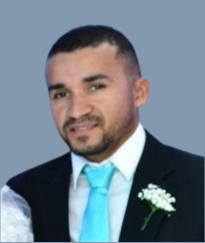
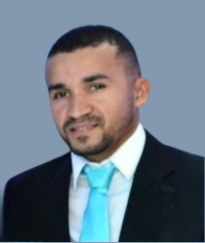
updated profile image

Changed region(s): [[0.0, 0.749, 0.2049, 1.0], [0.6732, 0.749, 0.878, 0.9506]]

diff --git a/index.html b/index.html
@@ -65,7 +65,7 @@
     <!-- home -->
 
     <main class="main" id="home">
-        <img class="imageMain" src="files/originalpicture-weslymacedo4.png" alt="Imagem de Wesly Macedo.">
+        <img class="imageMain" src="files/originalpicture-weslymacedo3.png" alt="Imagem de Wesly Macedo.">
         <div class="textsMain">
             <!-- <h4 class="textOneMain">Olá! Eu sou</h4> -->
             <h2 class="textTwoMain">Wesly Macedo</h2>
